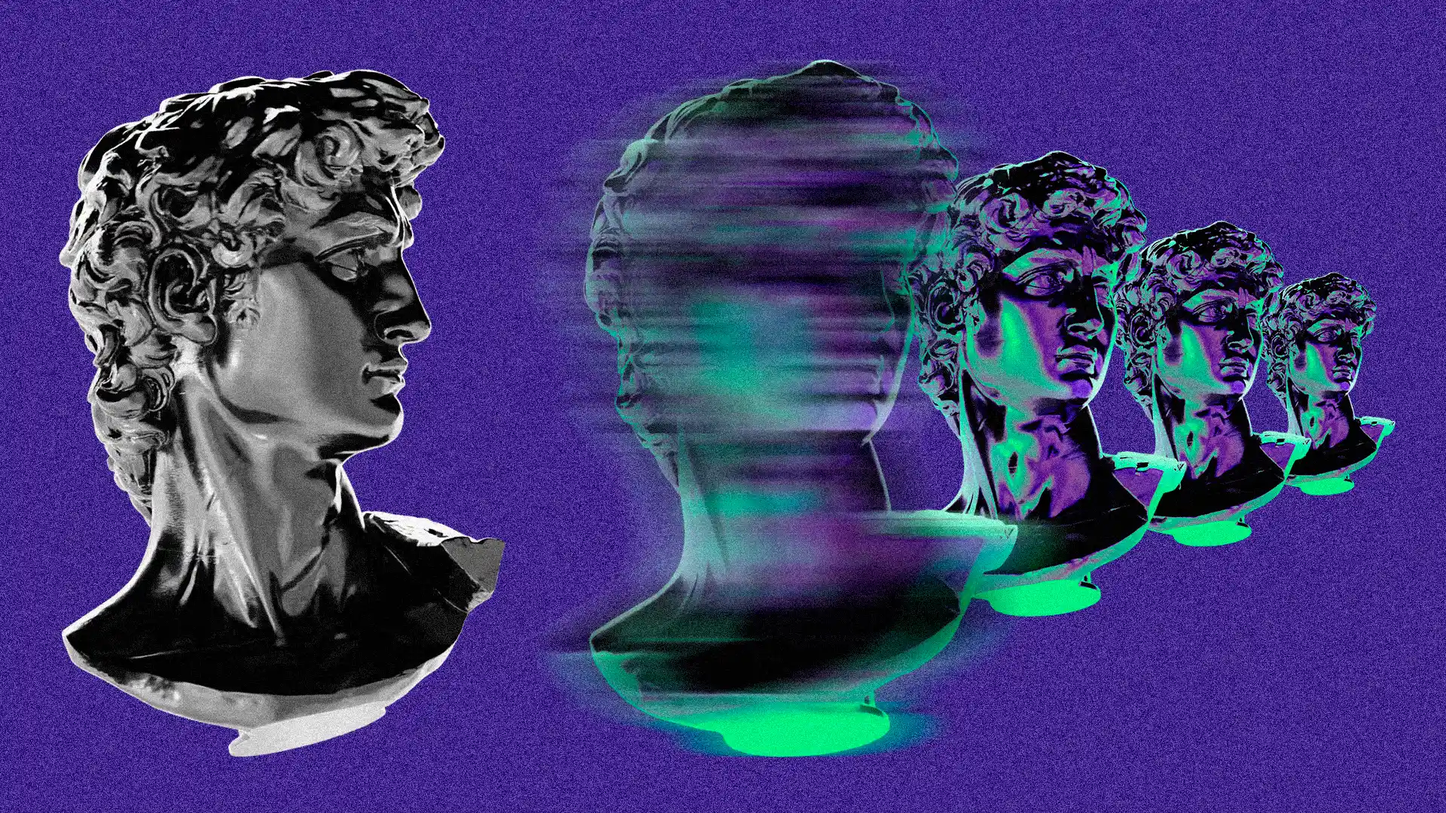
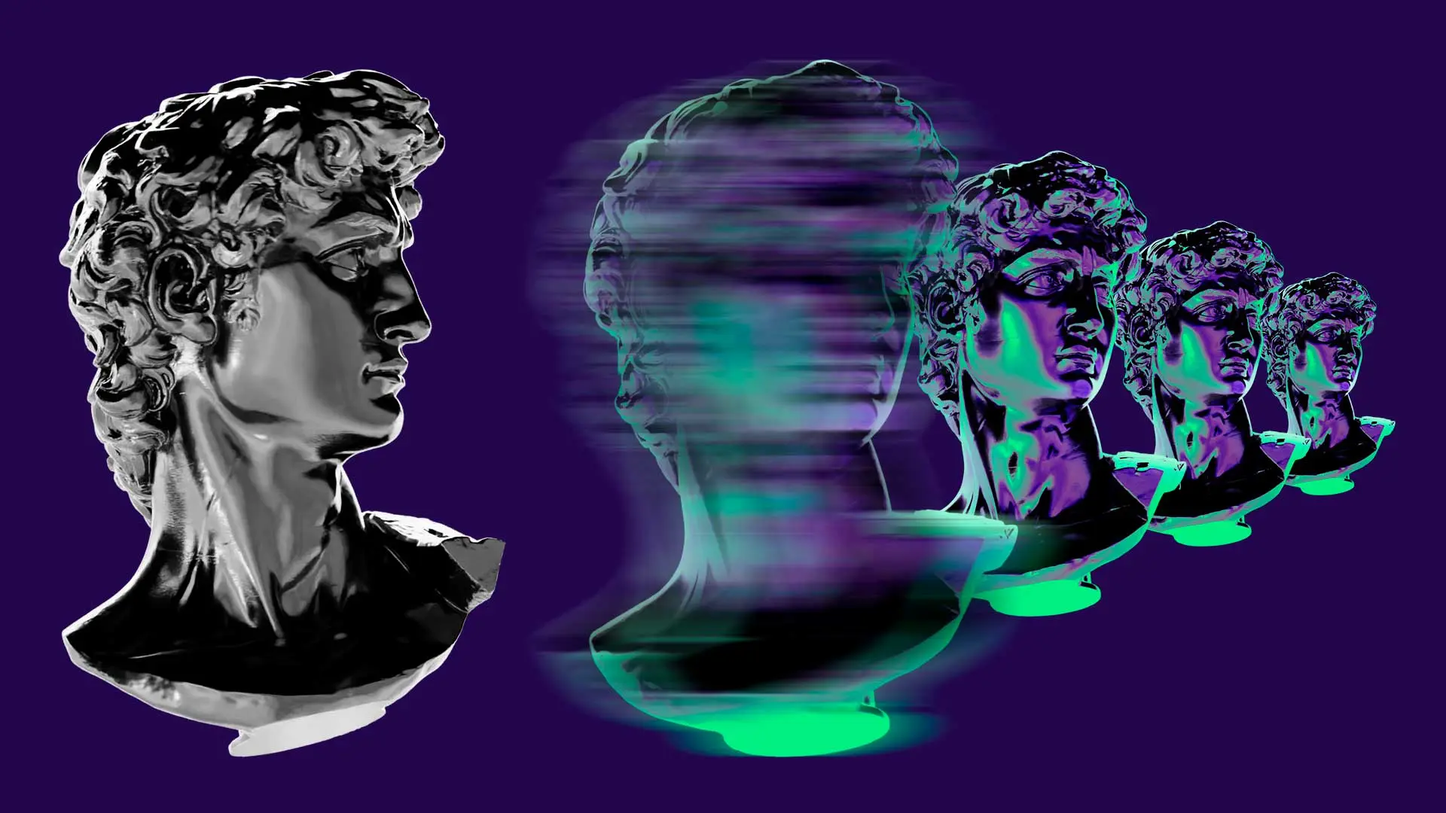
fix: altera imagens do projeto

diff --git a/app/_view/home/03_footer/Footer.tsx b/app/_view/home/03_footer/Footer.tsx
@@ -1,4 +1,3 @@
-import BgNoise from '@/app/_components/common/BgNoise';
 import AllanCodingLogo from '@/app/_components/svgs/AllanCodingLogoSvg';
 import { footerContactCopy, footerSocialCopy } from '@/app/data/footer';
 import FooterList from './FooterList';
@@ -9,9 +8,6 @@ export default function Footer() {
 
   return (
     <footer className="bg-tertiary px-base fixed left-0 top-0 z-0 flex min-h-dvh w-full ">
-      {/* noise */}
-      <BgNoise />
-
       {/* wrapper max-w */}
       <div className="max-w-component relative flex flex-1 flex-col justify-between pb-6 pt-[calc((var(--spacing-base)*2)+var(--spacing-type-xl)+4px)]">
         {/* logo */}

diff --git a/app/_view/home/02_main/certificates/CertificatesBanner.tsx b/app/_view/home/02_main/certificates/CertificatesBanner.tsx
@@ -1,4 +1,3 @@
-import highlightBg from '@/app/images/highlight-bg.webp';
 import highlight from '@/app/images/highlight.webp';
 
 export default function CertificatesBanner({
@@ -12,10 +11,7 @@ export default function CertificatesBanner({
         className="w-8/10 relative z-20 aspect-video bg-contain"
       ></div>
       {/* second image */}
-      <div
-        style={{ backgroundImage: `url(${highlightBg.src})` }}
-        className="max-h-4/10 bg-tertiary absolute inset-0 top-1/2 z-10 -translate-y-1/2 bg-cover"
-      ></div>
+      <div className="max-h-4/10 absolute inset-0 top-1/2 z-10 -translate-y-1/2 bg-[#1f0c46]"></div>
     </div>
   );
 }

diff --git a/app/_view/home/01_header/menu/Menu.tsx b/app/_view/home/01_header/menu/Menu.tsx
@@ -1,6 +1,5 @@
 'use client';
 
-import BgNoise from '@/app/_components/common/BgNoise';
 import * as Dialog from '@radix-ui/react-dialog';
 import { AnimatePresence, motion, Variants } from 'motion/react';
 import { useState } from 'react';
@@ -45,9 +44,7 @@ export default function Menu() {
                 exit={'hidden'}
                 animate={open ? 'show' : 'hidden'}
                 className="bg-tertiary fixed inset-0 z-40"
-              >
-                <BgNoise />
-              </motion.div>
+              ></motion.div>
             </Dialog.Overlay>
 
             {/* content */}

diff --git a/app/_view/home/02_main/hero/Hero.tsx b/app/_view/home/02_main/hero/Hero.tsx
@@ -1,6 +1,5 @@
 'use client';
 
-import BgNoise from '@/app/_components/common/BgNoise';
 import { motion, useMotionValueEvent, useScroll, Variants } from 'motion/react';
 import { useState } from 'react';
 import HeroBanner from './HeroBanner';
@@ -32,9 +31,6 @@ export default function Hero() {
 
   return (
     <section className="text-primary p-base bg-tertiary sticky top-0 flex min-h-dvh">
-      {/* noise */}
-      <BgNoise />
-
       {/* wrapper max-w */}
       <div className="max-w-component relative flex w-full flex-1 flex-col justify-between">
         {/* header */}

diff --git a/app/data/portfolio.ts b/app/data/portfolio.ts
@@ -1,6 +1,6 @@
-import dogsMockup from '@/app/images/dogs-dark-noise.webp';
-import kanbanMockup from '@/app/images/kanban-dark-noise.webp';
-import planejaiMockup from '@/app/images/planejai-light-noise.webp';
+import dogsMockup from '@/app/images/dogs-dark.webp';
+import kanbanMockup from '@/app/images/kanban-dark.webp';
+import planejaiMockup from '@/app/images/planejai-dark.webp';
 import { StaticImageData } from 'next/image';
 
 export interface ImageProps {

diff --git a/app/_view/home/02_main/hero/HeroBanner.tsx b/app/_view/home/02_main/hero/HeroBanner.tsx
@@ -1,5 +1,5 @@
-import bustBlur from '@/app/images/bust-blur-noise.webp';
-import bust from '@/app/images/bust-noise.webp';
+import bustBlur from '@/app/images/bust-blur.webp';
+import bust from '@/app/images/bust.webp';
 import { motion, Variants } from 'motion/react';
 import Image from 'next/image';
 import React from 'react';
